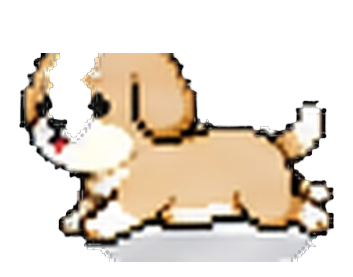
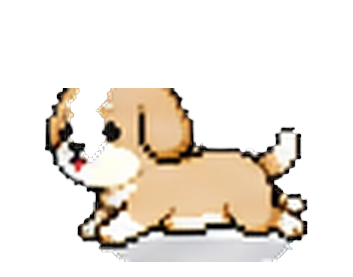
Move per-pose size correction from baked-in pixels to render-time scale
Resizing sprite PNGs directly (crop/resample onto a new canvas) was
introducing visible color/edge degradation - happy and idle in
particular read noticeably duller than untouched poses. Reverted those
four sprites (happy, idle, wake, walk facing west) to their original
pixel data, and instead apply the same size corrections as a CSS
transform at render time via a new per-state/per-direction `scale` on
AnimationDefinition, threaded through AnimationPlayer -> PetEngine's
snapshot -> PetCanvas. Bottom-anchored via transform-origin so the
correction never lifts the feet off the ground line.

diff --git a/src/pets/puppy/puppy.config.ts b/src/pets/puppy/puppy.config.ts
@@ -59,6 +59,15 @@ const REUSED_STATE_FRAMES: Partial<Record<PetState, PetState>> = {
   dragged: "surprised",
 };
 
+// Render-time size correction, applied on top of the sprite pixels rather
+// than by editing them - some poses' source art simply reads visually
+// smaller/larger than the rest at the same on-screen frame size.
+const STATE_SCALE: Partial<Record<PetState, number>> = {
+  idle: 0.96,
+  wake: 0.96,
+  happy: 1.15,
+};
+
 const animations: AnimationDefinition[] = PUPPY_STATES.map((name) => ({
   name,
   // Fall back to the east-facing cycle so an unexpected direction never
@@ -71,12 +80,27 @@ const animations: AnimationDefinition[] = PUPPY_STATES.map((name) => ({
         : framesFor(name),
   fps: PUPPY_FPS_BY_STATE[name],
   loop: name !== "surprised",
-  ...(name === "walk" ? { framesByDirection: WALK_FRAMES_BY_DIRECTION } : {}),
+  ...(STATE_SCALE[name] !== undefined ? { scale: STATE_SCALE[name] } : {}),
+  ...(name === "walk"
+    ? {
+        framesByDirection: WALK_FRAMES_BY_DIRECTION,
+        // Walking west was extracted at a visibly smaller scale than every
+        // other direction - bring it back in line with the rest of the cycle.
+        scaleByDirection: { W: 1.21 },
+      }
+    : {}),
   ...(name === "run" ? { framesByDirection: RUN_FRAMES_BY_DIRECTION } : {}),
 }));
 
 for (const [state, reuseFrom] of Object.entries(REUSED_STATE_FRAMES) as [PetState, PetState][]) {
-  animations.push({ name: state, frames: framesFor(reuseFrom), fps: 1, loop: true });
+  const scale = STATE_SCALE[reuseFrom];
+  animations.push({
+    name: state,
+    frames: framesFor(reuseFrom),
+    fps: 1,
+    loop: true,
+    ...(scale !== undefined ? { scale } : {}),
+  });
 }
 
 // PetConfig.ts's createDefaultPetConfig() is the one source of truth for

diff --git a/src/renderer/pet/PetCanvas.tsx b/src/renderer/pet/PetCanvas.tsx
@@ -2,7 +2,12 @@ import { forwardRef, useImperativeHandle, useRef } from "react";
 import type { PetState } from "../../types/pet";
 
 export interface PetCanvasHandle {
-  applyFrame(frameSrc: string | undefined, state: PetState, horizontalBias: "left" | "right"): void;
+  applyFrame(
+    frameSrc: string | undefined,
+    state: PetState,
+    horizontalBias: "left" | "right",
+    scale: number,
+  ): void;
 }
 
 interface PetCanvasProps {
@@ -27,12 +32,16 @@ export const PetCanvas = forwardRef<PetCanvasHandle, PetCanvasProps>(function Pe
   const imgRef = useRef<HTMLImageElement>(null);
 
   useImperativeHandle(ref, () => ({
-    applyFrame(frameSrc, state, horizontalBias) {
+    applyFrame(frameSrc, state, horizontalBias, scale) {
       const img = imgRef.current;
       if (!img) return;
       if (frameSrc && img.src !== frameSrc) img.src = frameSrc;
-      img.style.transform =
-        !DIRECTIONAL_STATES.has(state) && horizontalBias === "left" ? "scaleX(-1)" : "scaleX(1)";
+      const mirrored = !DIRECTIONAL_STATES.has(state) && horizontalBias === "left";
+      // Anchor at bottom-center so a scale correction never lifts the feet
+      // off the ground line - mirrors how the sprite sheet itself is
+      // bottom-anchored.
+      img.style.transformOrigin = "50% 100%";
+      img.style.transform = `scale(${mirrored ? -scale : scale}, ${scale})`;
     },
   }));
 

diff --git a/src/engine/PetEngine.ts b/src/engine/PetEngine.ts
@@ -18,6 +18,8 @@ export interface PetSnapshot {
   frameSrc: string | undefined;
   state: PetState;
   isDragging: boolean;
+  /** Render-time size correction for the current pose (1 = none). */
+  scale: number;
 }
 
 /**
@@ -156,6 +158,7 @@ export class PetEngine {
         frameSrc: this.animation.getCurrentFrameSrc(),
         state: this.animation.state,
         isDragging: true,
+        scale: this.animation.getCurrentScale(),
       };
     }
 
@@ -173,6 +176,7 @@ export class PetEngine {
         frameSrc: this.animation.getCurrentFrameSrc(),
         state: this.animation.state,
         isDragging: false,
+        scale: this.animation.getCurrentScale(),
       };
     }
 
@@ -185,6 +189,7 @@ export class PetEngine {
       frameSrc: this.animation.getCurrentFrameSrc(),
       state: this.animation.state,
       isDragging: false,
+      scale: this.animation.getCurrentScale(),
     };
   }
 }

diff --git a/src/types/pet.ts b/src/types/pet.ts
@@ -28,6 +28,13 @@ export interface AnimationDefinition {
   framesByDirection?: Partial<Record<Direction, string[]>>;
   fps: number;
   loop: boolean;
+  /** Render-time size correction (1 = as-authored) - lets poses whose source
+   * art reads visually smaller/larger than the rest be normalized without
+   * touching the sprite pixels themselves. */
+  scale?: number;
+  /** Per-direction override of `scale`, for states (walk/run) whose gait
+   * cycle was extracted at an inconsistent scale between directions. */
+  scaleByDirection?: Partial<Record<Direction, number>>;
 }
 
 /**

diff --git a/src/renderer/pet/PetRenderer.tsx b/src/renderer/pet/PetRenderer.tsx
@@ -40,7 +40,7 @@ export function PetRenderer() {
         lastTs = ts;
 
         const snapshot = engine.update(dt);
-        canvasRef.current?.applyFrame(snapshot.frameSrc, snapshot.state, snapshot.horizontalBias);
+        canvasRef.current?.applyFrame(snapshot.frameSrc, snapshot.state, snapshot.horizontalBias, snapshot.scale);
 
         if (snapshot.x !== lastSent.current.x || snapshot.y !== lastSent.current.y) {
           lastSent.current = { x: snapshot.x, y: snapshot.y };

diff --git a/src/engine/AnimationPlayer.ts b/src/engine/AnimationPlayer.ts
@@ -40,6 +40,13 @@ export class AnimationPlayer {
     return this.finished;
   }
 
+  /** Render-time size correction for the current state/direction (1 = none). */
+  getCurrentScale(): number {
+    const def = this.definitions.get(this.current);
+    if (!def) return 1;
+    return def.scaleByDirection?.[this.direction] ?? def.scale ?? 1;
+  }
+
   private activeFrames(def: AnimationDefinition): string[] {
     return def.framesByDirection?.[this.direction] ?? def.frames;
   }
